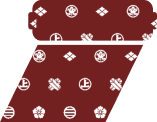
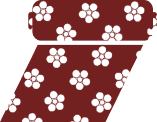
修正

diff --git a/frontend/www/css/search.css b/frontend/www/css/search.css
@@ -5,7 +5,7 @@
 =================================================================== */
 
 :root {
-    --search-dark: #453625;
+    --search-dark: #3d1c17;
     --search-shu: #c1440e;
     --search-shu-deep: #8f2e08;
     --search-bg: #faf3e4;
@@ -75,7 +75,10 @@
 
 .search-hero {
     padding: 28px 22px 20px;
-    background: linear-gradient(160deg, var(--search-dark) 0%, #6b2c22 100%);
+    background-image: url("../images/search-hero-pattern.png");
+    background-size: cover;
+    background-position: center;
+    background-repeat: no-repeat;
     color: var(--search-cream);
 }
 
